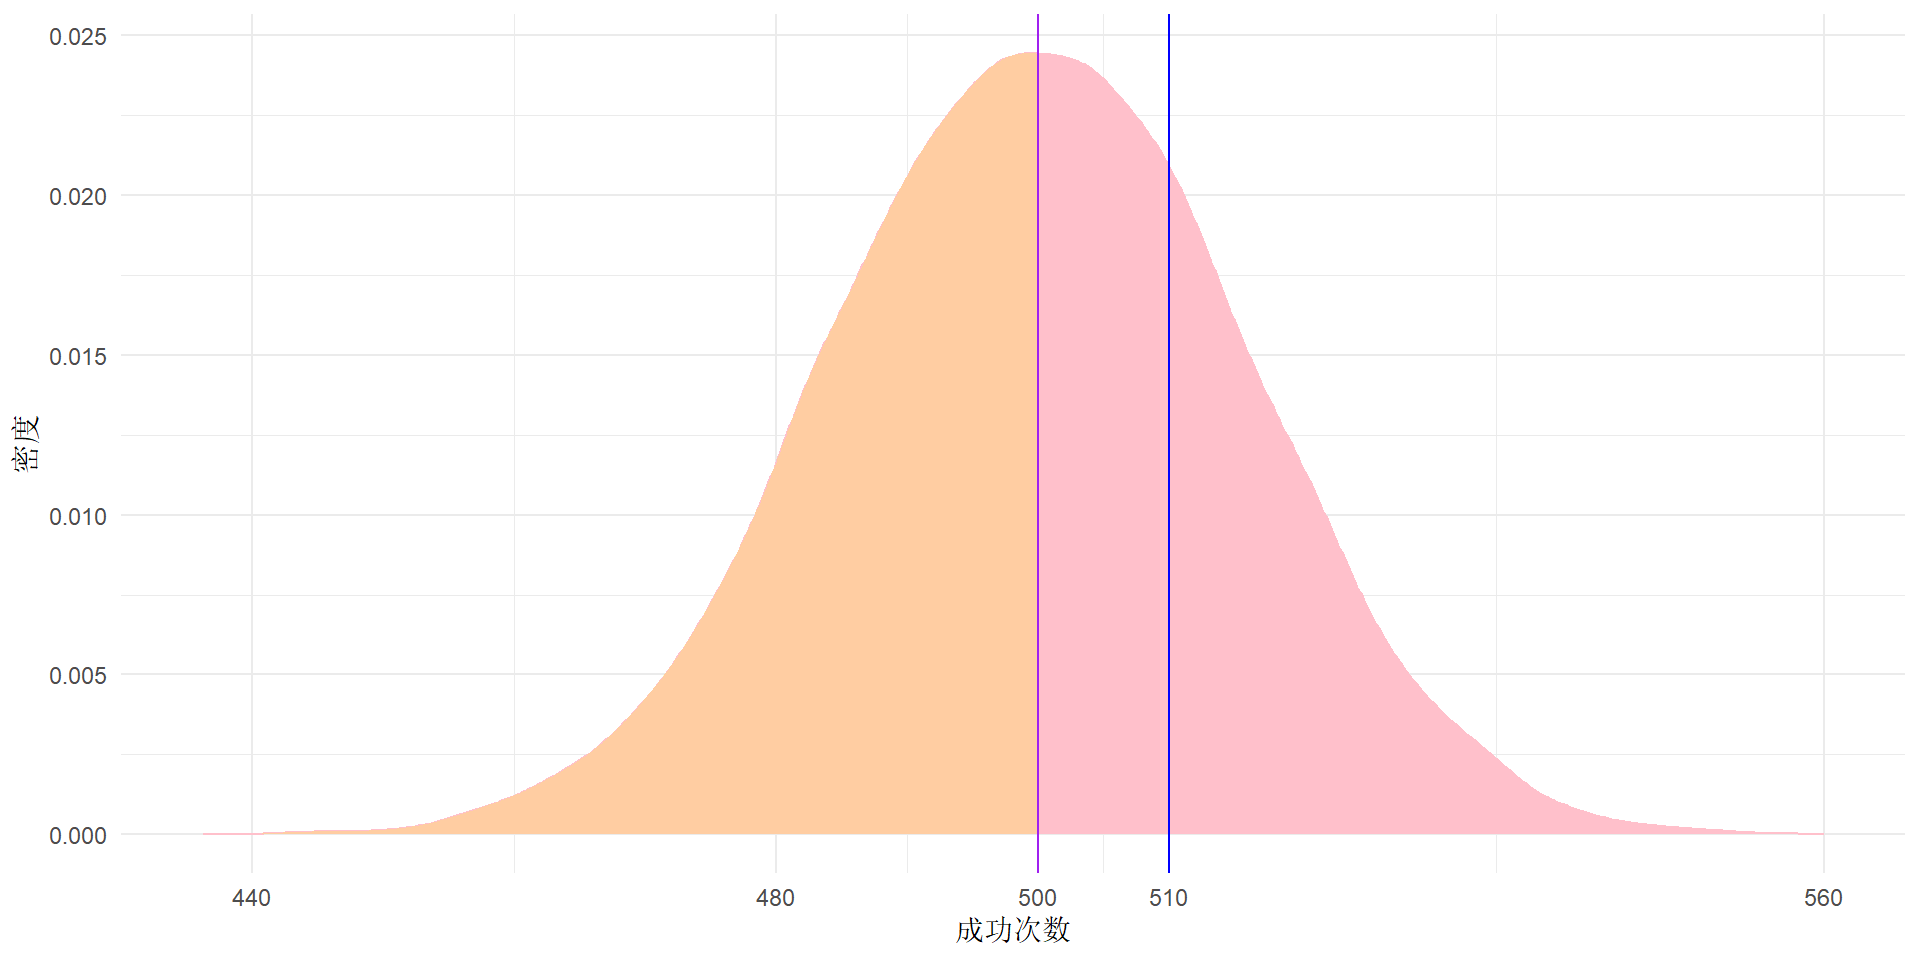
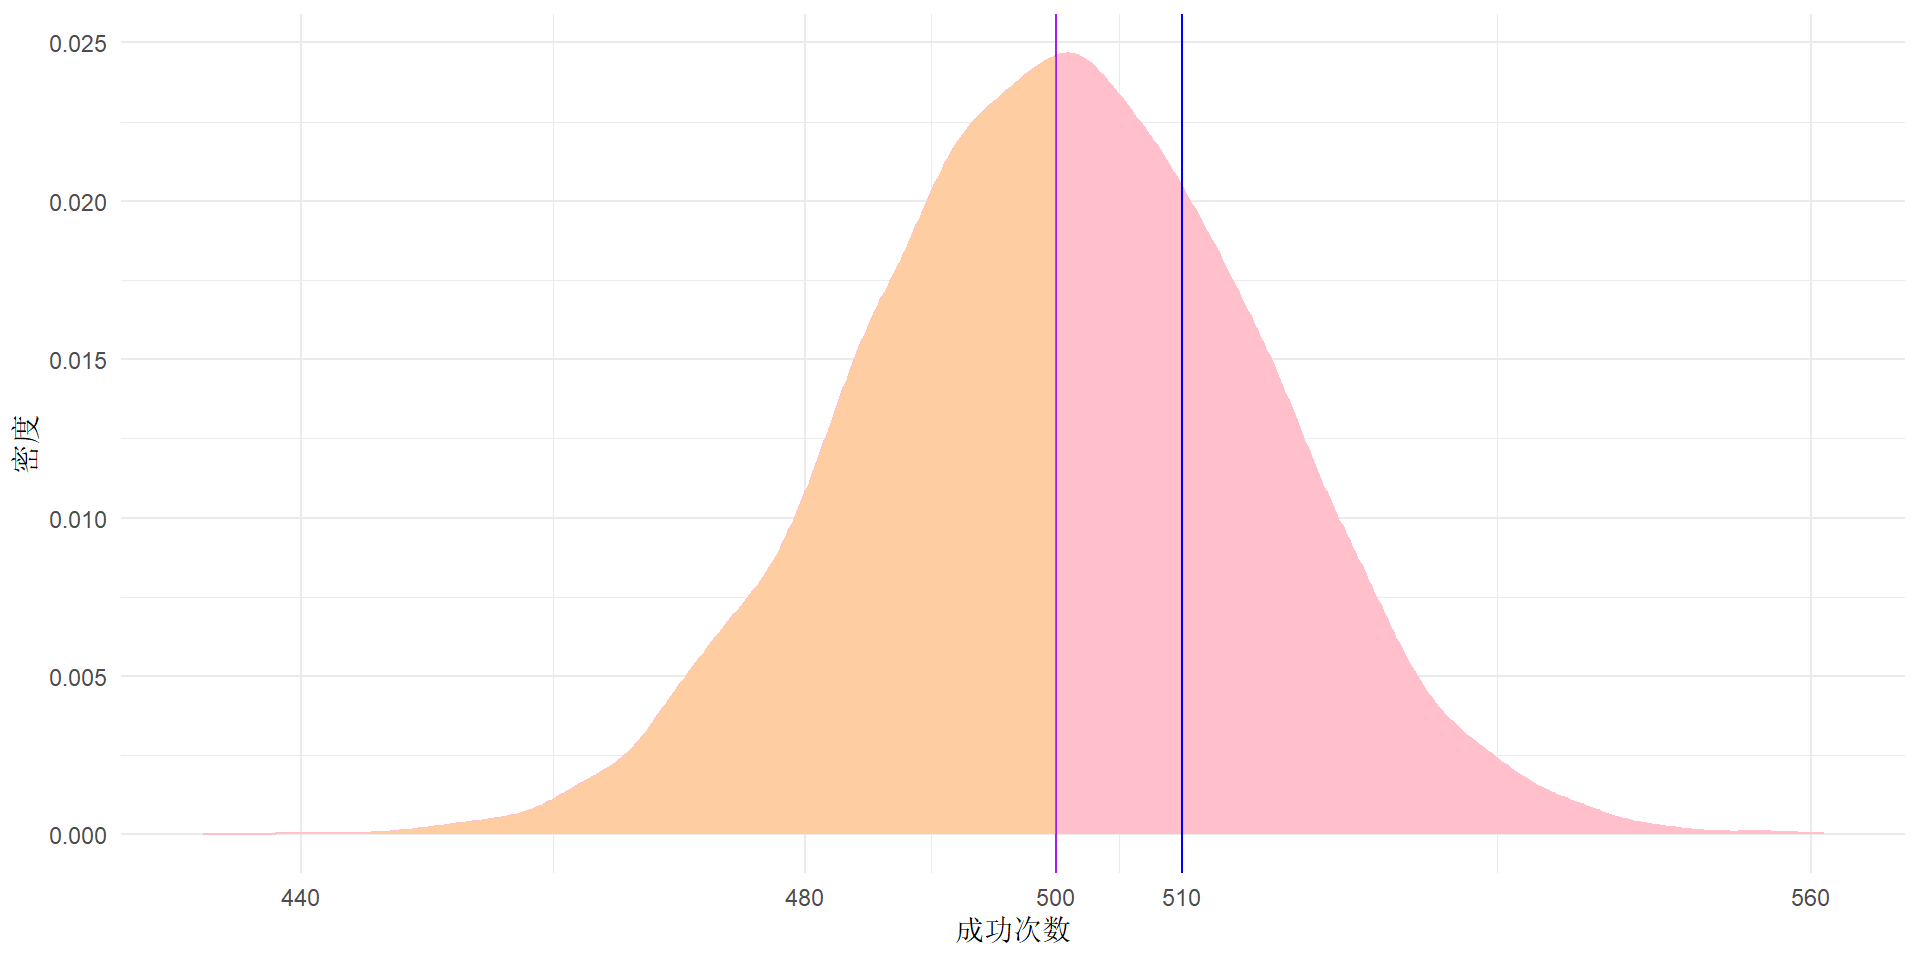
after lecture 6

diff --git a/Spring_Markdown/Lecture6/Lecture6.html b/Spring_Markdown/Lecture6/Lecture6.html
@@ -357,7 +357,7 @@
 <p><strong>疑问</strong>：<br><br> 1. 伯努利试验中的重复次数和 b(k; n,p)中的关系;<br><br></p>
 <ol start="2" type="1">
 <li><p>贝叶斯公式中的似然和上节课提到的似然之间的关系;<br><br></p></li>
-<li><p>似然在何种情况下和概率是等价的<br><br></p></li>
+<li><p>似然与概率？<br><br></p></li>
 </ol>
 </section>
 <section id="伯努利试验中的重复次数和-bk-np中的关系" class="slide level2">
@@ -440,7 +440,7 @@
 <p><br><br><br><br><br><br></p>
 <center>
 <p><strong>直观图像上，二项分布的极限分布（</strong><span class="math inline">\(n \rightarrow \infty\)</span>）是一种对称钟形分布，<br></p>
-那么真实数据上也是如此吗？
+<p>那么真实数据上也是如此吗？</p>
 </center>
 </section>
 <section id="n-10-100-1000" class="slide level2">
@@ -468,9 +468,9 @@
 <pre><code># A tibble: 3 × 3
   num_sims mean_x  sd_x
   &lt;fct&gt;     &lt;dbl&gt; &lt;dbl&gt;
-1 1000       50.0  5.00
-2 10000      50.0  5.03
-3 1e+05      50.0  5.01</code></pre>
+1 1000       50.4  4.88
+2 10000      50.0  5.02
+3 1e+05      50.0  5.00</code></pre>
 </div>
 </div>
 <p><br><br><br><br> <strong>n增大,平均值趋近于</strong><span class="math inline">\(\mu = np\)</span>, 标准差趋近于<span class="math inline">\(\sigma = \sqrt(npq)\)</span></p>
@@ -798,7 +798,7 @@ n足够大，直方条形面积可近似看作一条曲线与x轴围成
 <h2></h2>
 <p><br><br> <br><br></p>
 <center>
-<p><strong>是否其他分布中也存在这种极限分布接近正态分布的情况？</strong></p>
+<strong>是否其他分布中也存在这种极限分布接近正态分布的情况？</strong>
 </center>
 </section>
 <section id="二项分布" class="slide level2">
